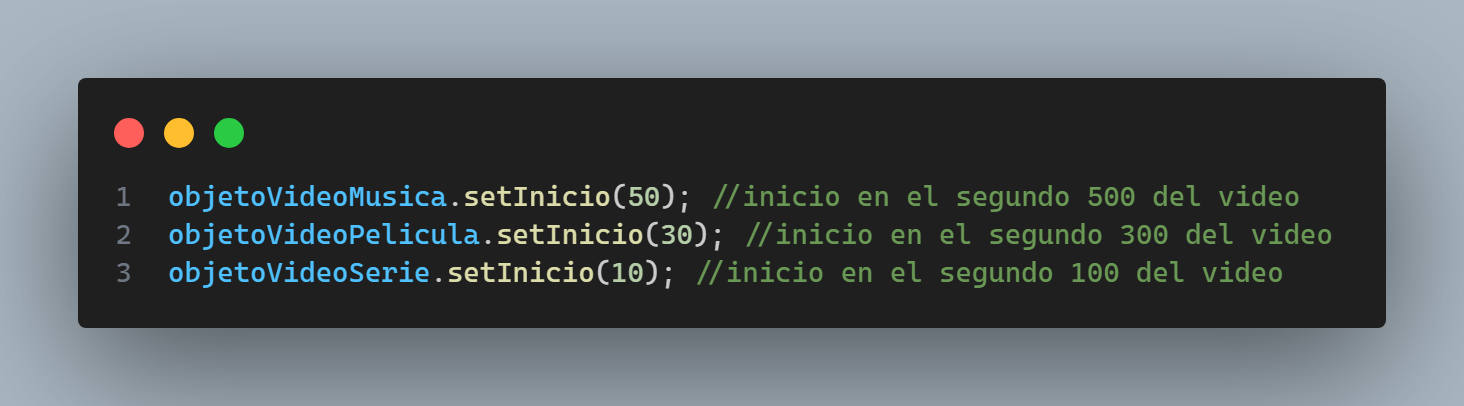
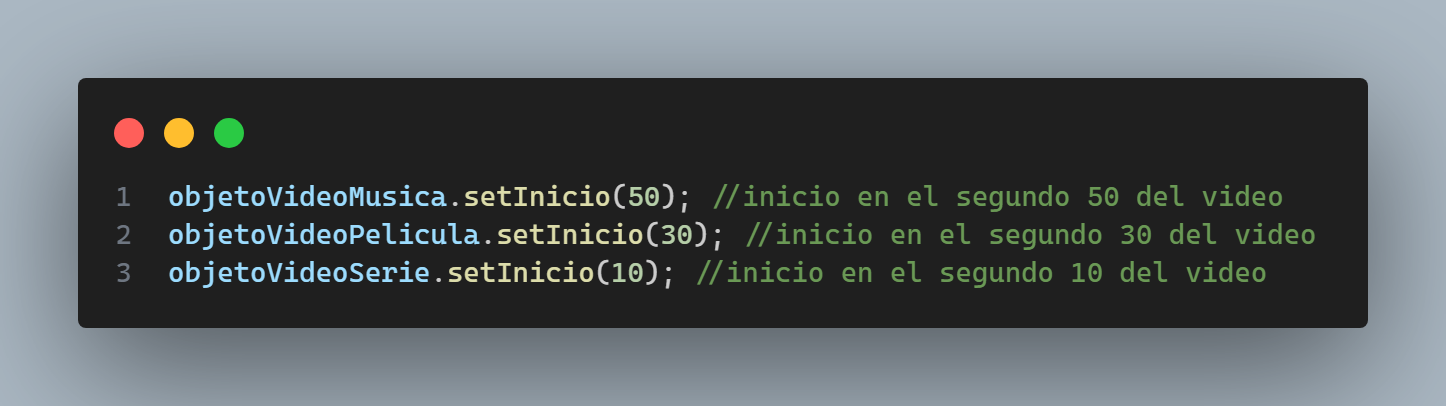
update image readme.md

Changed region(s): [[0.0622, 0.4433, 0.9025, 0.7094], [0.0934, 0.2956, 0.1556, 0.3547]]

diff --git a/assets/js/script_modulos.js b/assets/js/script_modulos.js
@@ -53,9 +53,9 @@ const objetoVideoSerie = new Reproductor(
   "series"
 );
 
-objetoVideoMusica.setInicio(50); //inicio en el segundo 500 del video
-objetoVideoPelicula.setInicio(30); //inicio en el segundo 300 del video
-objetoVideoSerie.setInicio(10); //inicio en el segundo 100 del video
+objetoVideoMusica.setInicio(50); //inicio en el segundo 50 del video
+objetoVideoPelicula.setInicio(30); //inicio en el segundo 30 del video
+objetoVideoSerie.setInicio(10); //inicio en el segundo 10 del video
 
 objetoVideoMusica.playMultimedia();
 objetoVideoPelicula.playMultimedia();
